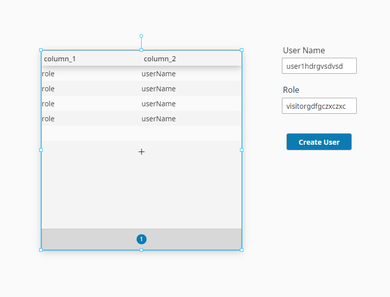
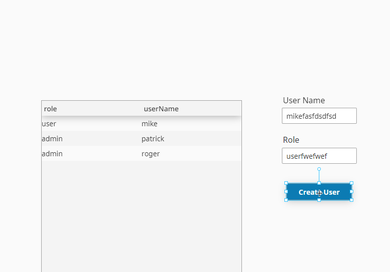
Table Complete!!!! Debug fixed.

diff --git a/com.inductiveautomation.perspective/stylesheet/stylesheet.css b/com.inductiveautomation.perspective/stylesheet/stylesheet.css
@@ -1,0 +1,2 @@
+/* Direct stylesheet authoring is an advanced feature. Knowledge of CSS required.*/
+

diff --git a/ignition/script-python/fetchData/code.py b/ignition/script-python/fetchData/code.py
@@ -1,36 +1,39 @@
-import urllib2
-import json
 
-# Define the URL and bearer token
-url = 'http://localhost:3000/api/users'
-bearer_token = 'eyJhbGciOiJIUzI1NiIsInR5cCI6IkpXVCJ9.eyJzdWIiOiJjbHQzanVveTcwMDAwdXI5ZjRjZzhvbGlwIiwidXNlcm5hbWUiOiJhZG1pbiIsImlhdCI6MTcwOTIyNjUxOSwiZXhwIjoxNzA5Mzk5MzE5fQ.ZP2SYn7TafQDWRYf3WAgCFq3C26xfakuh2jXuXJJ4Fw'
-
-# Create a request object with the bearer token
-request = urllib2.Request(url)
-request.add_header('Authorization', 'Bearer ' + bearer_token)
-
-try:
-    # Send the request and get the response
-    response = urllib2.urlopen(request)
+import myWMSFuncs.networking.testScript as testScript
+from myWMSFuncs.networking.testScript import myTestFunc
     
-    # Read the response data and parse JSON
-    response_data = response.read()
-    users = json.loads(response_data)
-    
-    # Process the user data
-    # Adding it to the default tag provider
-    system.tag.write("[default]user_json", users)
-    for user in users:
-        print("User ID:", user['id'])
-        print("Username:", user['username'])
-        print("Email:", user['email'])
-   
-    
-except urllib2.HTTPError as e:
-    print("HTTP Error:", e.code)
-    # Handle HTTP errors
-except urllib2.URLError as e:
-    print("URL Error:", e.reason)
-    # Handle URL errors
-except Exception as e:
-    print("Error:", e)
+def fetchData():
+	import urllib2
+	import json
+	
+	# Define the URL and bearer token
+	url = 'http://localhost:3000/api/users'
+	bearer_token = 'eyJhbGciOiJIUzI1NiIsInR5cCI6IkpXVCJ9.eyJzdWIiOiJjbHQzanVveTcwMDAwdXI5ZjRjZzhvbGlwIiwidXNlcm5hbWUiOiJhZG1pbiIsImlhdCI6MTcwOTIyNjUxOSwiZXhwIjoxNzA5Mzk5MzE5fQ.ZP2SYn7TafQDWRYf3WAgCFq3C26xfakuh2jXuXJJ4Fw'
+	
+	# Create a request object with the bearer token
+	request = urllib2.Request(url)
+	request.add_header('Authorization', 'Bearer ' + bearer_token)
+	
+	try:
+	    # Send the request and get the response
+	    response = urllib2.urlopen(request)
+	    
+	    # Read the response data and parse JSON
+	    response_data = response.read()
+	    users = json.loads(response_data)
+	    
+	    # Process the user data
+	    # Adding it to the default tag provider
+	    system.tag.write("[default]user_json", users)
+	    for user in users:
+	        print("User ID:", user['id'])
+	        print("Username:", user['username'])
+	        print("Email:", user['email'])
+	except urllib2.HTTPError as e:
+	    print("HTTP Error:", e.code)
+	    # Handle HTTP errors
+	except urllib2.URLError as e:
+	    print("URL Error:", e.reason)
+	    # Handle URL errors
+	except Exception as e:
+	    print("Error:", e)

diff --git a/ignition/script-python/myWMSFuncs/networking/testScript/code.py b/ignition/script-python/myWMSFuncs/networking/testScript/code.py
@@ -1,0 +1,2 @@
+def myTestFunc():
+	pass
